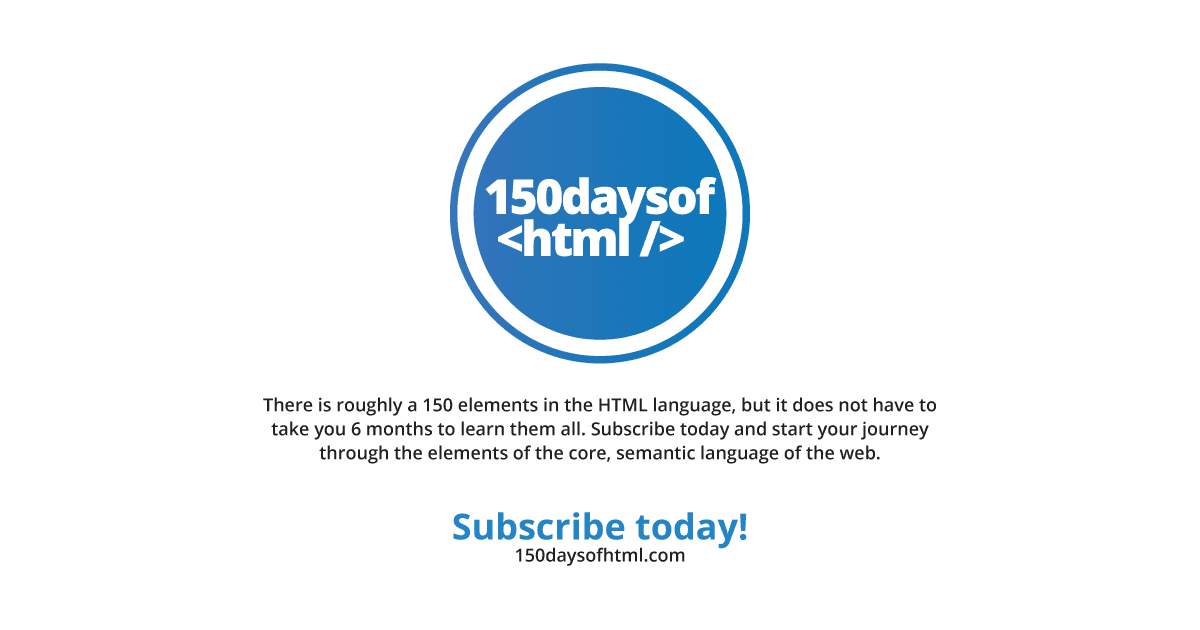
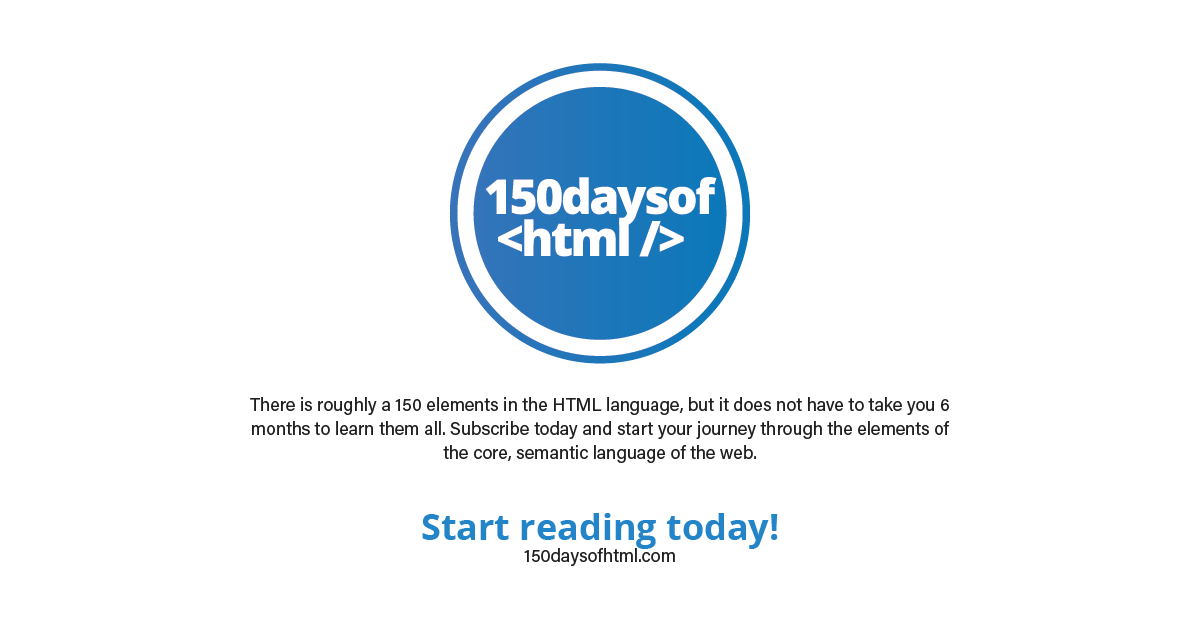
fix social share image and copy

Changed region(s): [[0.2158, 0.6333, 0.8017, 0.754], [0.3392, 0.8143, 0.6475, 0.9048]]

diff --git a/layouts/partials/head.html b/layouts/partials/head.html
@@ -36,7 +36,7 @@
     <meta property="og:site_name" content="150 Days of HTML" />
     <meta property="og:title" content="A Journey Through the Element of HTML" />
     <meta property="og:description"
-        content="Subscribe today and start your journey through the elements of the core, semantic language of the web." />
+        content="Start your journey today through the elements of the core, semantic language of the web." />
     <meta property="og:locale" content="en-US" />
     <meta property="og:url" content="https://150daysofhtml.com/" />
     <meta property="og:image"
@@ -44,7 +44,7 @@
     <meta property="og:image:width" content="1200" />
     <meta property="og:image:height" content="630" />
     <meta property="og:image:alt"
-        content="Subscribe today and start your journey through the elements of the core, semantic language of the web." />
+        content="Start your journey today through the elements of the core, semantic language of the web." />
 
     <meta name="twitter:card" content="summary_large_image" />
 
